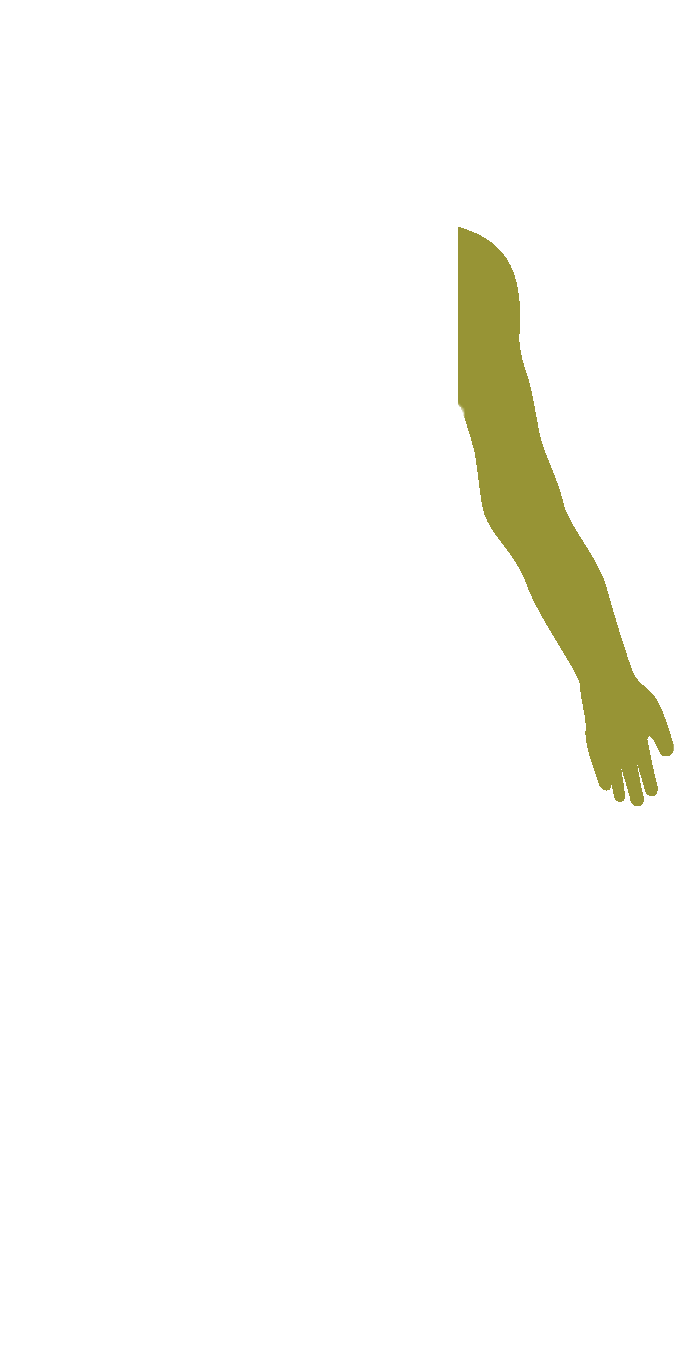
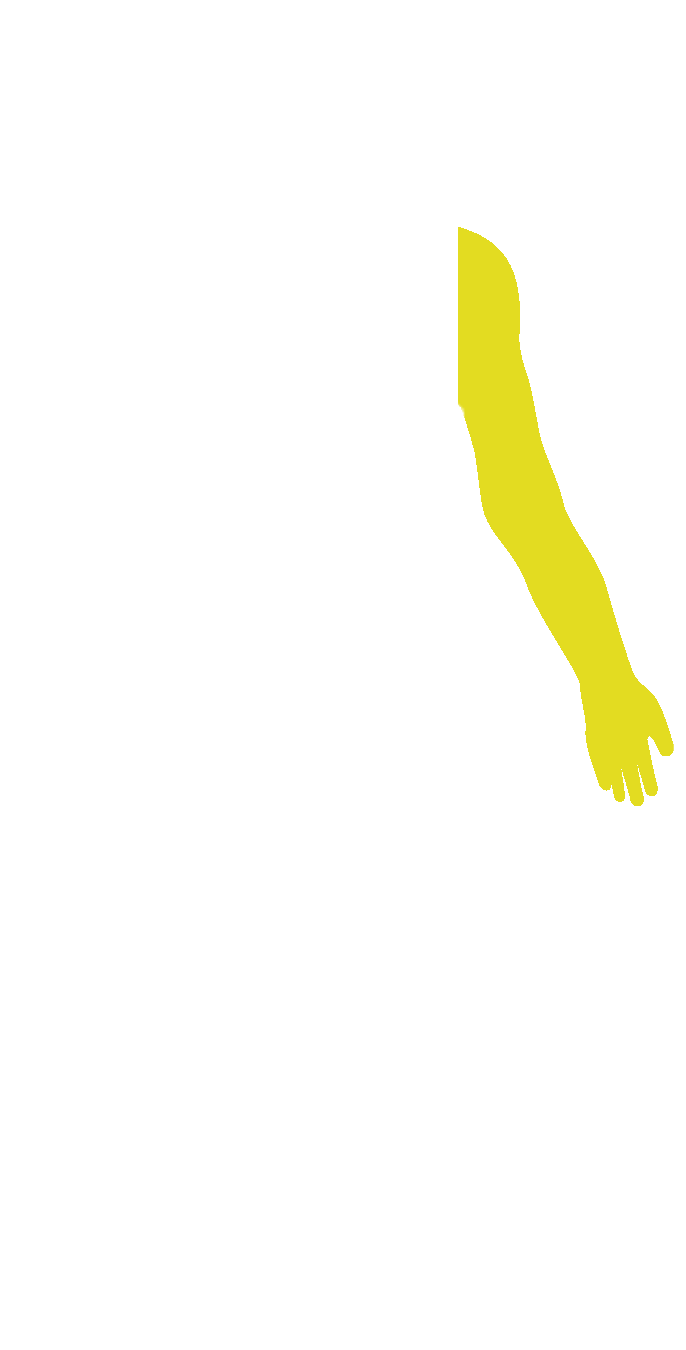
Body resolved

Changed region(s): [[0.6429, 0.1556, 0.9796, 0.6222]]

diff --git a/views/dialog_add_human_body.html b/views/dialog_add_human_body.html
@@ -1,4 +1,4 @@
-<md-dialog aria-label="Adicionar problema" ng-cloak>
+<md-dialog aria-label="Adicionar problema" ng-cloak style="min-width:500px">
 	<form name="addForm">
 		<md-toolbar>
 			<div class="md-toolbar-tools">
@@ -12,38 +12,48 @@
 		<md-dialog-content>
 			<div class="md-dialog-content">
 				<div class="row">
-					<div>
-						<div class="row col-md-6 col-sm-12">
-							<label>Parte do corpo</label>
-							<md-select ng-model="add.part" ng-required="true">
-								<md-option ng-repeat="state in partsList" value="{{state.value}}">
-									{{state.name}}
-								</md-option>
-							</md-select>
-						</div>
-						<div class="row col-md-6 col-sm-12">
-							<label>Severidade</label>
-							<md-select ng-model="add.severity" ng-required="true">
-								<md-option ng-repeat="state in severities" value="{{state.value}}">
-									{{state.name}}
-								</md-option>
-							</md-select>
-						</div>
+					<div class="col-md-6 col-sm-12">
+						<label>Parte do corpo</label>
+						<md-select ng-model="add.part" ng-required="true">
+							<md-option ng-repeat="state in partsList" value="{{state.value}}">
+								{{state.name}}
+							</md-option>
+						</md-select>
 					</div>
-					<div class="row col-md-12">
+					<div class="col-md-6 col-sm-12">
+						<label>Severidade</label>
+						<md-select ng-model="add.severity" ng-required="true">
+							<md-option ng-repeat="state in severities" value="{{state.value}}">
+								{{state.name}}
+							</md-option>
+						</md-select>
+					</div>
+				</div>
+				<div class="row">
+					<div class="col-md-12">
 						<md-input-container class="md-block" flex-gt-sm>
 							<label>Problema</label>
 							<input ng-model="add.problem" ng-required="true">
 						</md-input-container>
 					</div>
-					<div class="row col-md-12">
+				</div>
+				<div class="row">
+					<div class="col-md-12">
 						<md-input-container class="md-block">
 							<label>Descrição</label>
 							<textarea ng-model="add.description" ng-required="true" rows="5" md-select-on-focus></textarea>
 						</md-input-container>
 					</div>
-					<div class="row col-md-12">
-          				<md-datepicker ng-model="add.occurredDate" ng-required="true" md-placeholder="Selecione a data"></md-datepicker>
+				</div>
+				<div class="row">
+					<div class="col-md-7">
+          				<md-datepicker ng-model="add.occurredDate" ng-required="true" md-placeholder="Selecione a data">
+          				</md-datepicker>
+          			</div>
+          			<div class="col-md-5">
+          				<md-switch ng-model="add.resolved" aria-label="Resolvido">
+							Resolvido
+						</md-switch>
           			</div>
 				</div>
 			</div>

diff --git a/css/home.less b/css/home.less
@@ -197,27 +197,34 @@
 
 			position: absolute;
 
-			&.full { background-image: url('../images/body/greyBody.png'); }
+			&.full { background-image: url('../images/body/whiteBody.png'); }
 
 			&.stomach-red { background-image: url('../images/body/redAbs.png'); }
+			&.stomach-gray { background-image: url('../images/body/greyAbs.png'); }
 			&.stomach-yellow { background-image: url('../images/body/yellowAbs.png'); }
 
 			&.chest-red { background-image: url('../images/body/redChest.png'); }
+			&.chest-gray { background-image: url('../images/body/greyChest.png'); }
 			&.chest-yellow { background-image: url('../images/body/yellowChest.png'); }
 
 			&.head-red { background-image: url('../images/body/redHead.png'); }
+			&.head-gray { background-image: url('../images/body/greyHead.png'); }
 			&.head-yellow { background-image: url('../images/body/yellowHead.png'); }
 
 			&.leftArm-red { background-image: url('../images/body/redLeftArm.png'); }
+			&.leftArm-gray { background-image: url('../images/body/greyLeftArm.png'); }
 			&.leftArm-yellow { background-image: url('../images/body/yellowLeftArm.png'); }
 
 			&.leftLeg-red { background-image: url('../images/body/redLeftLeg.png'); }
+			&.leftLeg-gray { background-image: url('../images/body/greyLeftLeg.png'); }
 			&.leftLeg-yellow { background-image: url('../images/body/yellowLeftLeg.png'); }
 
 			&.rightArm-red { background-image: url('../images/body/redRightArm.png'); }
+			&.rightArm-gray { background-image: url('../images/body/greyRightArm.png'); }
 			&.rightArm-yellow { background-image: url('../images/body/yellowRightArm.png'); }
 
 			&.rightLeg-red { background-image: url('../images/body/redRightLeg.png'); }
+			&.rightLeg-gray { background-image: url('../images/body/greyRightLeg.png'); }
 			&.rightLeg-yellow { background-image: url('../images/body/yellowRightLeg.png'); }
 		}
 

diff --git a/js/controller/humanBodyCtrl.js b/js/controller/humanBodyCtrl.js
@@ -9,11 +9,21 @@ app.controller("HumanBodyCtrl", function($scope, $http, $location, $cookies, $md
 	function load () {
 		$http.get(API_URL + 'patients/' + $cookies.get('user') + '/bodyparts', config).then(function (data) {
 			for (var i = 0; i < data.data.length; i++) {
+				data.data[i].problems.sort(function(a, b) {
+					var x = a.severity == "High" ? 2 : (a.severity == "Medium" ? 1 : 0);
+					var y = b.severity == "High" ? 2 : (b.severity == "Medium" ? 1 : 0);
+					return x - y;
+				});
+
 				for (var j = 0; j < data.data[i].problems.length; j++) {
-					if (data.data[i].problems[j].severity == "Medium") {
-						$scope.parts.push(data.data[i].part + "-yellow");
-					} else if (data.data[i].problems[j].severity == "High") {
-						$scope.parts.push(data.data[i].part + "-red");
+					if (!data.data[i].problems[j].resolved) {
+						if (data.data[i].problems[j].severity == "Medium") {
+							$scope.parts.push(data.data[i].part + "-yellow");
+						} else if (data.data[i].problems[j].severity == "High") {
+							$scope.parts.push(data.data[i].part + "-red");
+						} else {
+							$scope.parts.push(data.data[i].part + "-gray");
+						}
 					}
 				};
 			};

diff --git a/views/dialog_view_human_body.html b/views/dialog_view_human_body.html
@@ -1,4 +1,4 @@
-<md-dialog aria-label="{{ name }}" ng-cloak>
+<md-dialog aria-label="{{ name }}" ng-cloak style="min-width:500px">
 	<form>
 		<md-toolbar>
 			<div class="md-toolbar-tools">
@@ -13,10 +13,17 @@
 			<div class="md-dialog-content">
 				<div class="row">
 					<md-list flex>
-						<md-list-item class="md-2-line" ng-repeat="item in problems">
+						<md-list-item class="md-3-line" ng-repeat="item in problems">
 							<div class="md-list-item-text" layout="column">
 								<h3>{{ item.problem }}</h3>
 								<h4>{{ item.description }}</h4>
+								<p>
+									<i>
+										Data: {{ item.occurredDate | date }}, 
+										Severidade: <b>{{ item.severity == "High" ? "Alta" : (item.severity == "Medium" ? "Média" : "Baixa") }}</b>
+										<span ng-show="item.resolved">- <b>Resolvido</b></span>
+									</i>
+								</p>
 							</div>
 						</md-list-item>
 					</md-list>

diff --git a/views/human_body.html b/views/human_body.html
@@ -7,12 +7,14 @@
 		<div class="col-xs-12 col-sm-9 col-md-9">
 			<md-card md-theme="default" md-theme-watch class="main-content">
 				<div class="body">
-					<md-button class="md-fab" aria-label="Eat cake" ng-click="openAdd()">
-						<i class="material-icons">add</i>
-					</md-button>
+					<div class="row">
+						<md-button class="col-md-3 md-primary" aria-label="Adicionar problema" ng-click="openAdd()">
+							Adicionar problema
+						</md-button>
+					</div>
 
 					<div class="human-body full"></div>
-					<div ng-repeat="p in parts" class="human-body {{ p }}"></div>
+					<div ng-repeat="p in parts track by $index" class="human-body {{ p }}"></div>
 					<div class="clicks">
 						<div class="head" ng-click="part('head')"></div>
 						<div class="rightArm" ng-click="part('rightArm')"></div>

diff --git a/views/side.html b/views/side.html
@@ -12,7 +12,7 @@
 					<span class="material-icons">person</span> Editar Perfil
 				</div>
 			</li>
-			<li class="collection-item">
+			<li class="collection-item" ng-show="user.userType == 0">
 				<div class="item" ng-click="redirect('corpo')">
 					<span class="material-icons">accessibility</span> Corpo Humano
 				</div>
@@ -33,7 +33,7 @@
 				</div>
 			</li>
 		</ul>
-		<ul class="collection">
+		<ul class="collection" ng-show="user.userType == 0">
 			<li class="collection-item">
 				<div class="titulo">MÉDICOS</div>
 			</li>

diff --git a/views/posts.html b/views/posts.html
@@ -31,7 +31,7 @@
 									<div class="row">
 										<div class="col-md-10">
 											<br />
-											<h3>Nome {{ post.user.name }}</h3>
+											<h3>Nome {{ post.nameUser }}</h3>
 											<p>{{ post.text }}</p>
 											<p>
 												<i>
